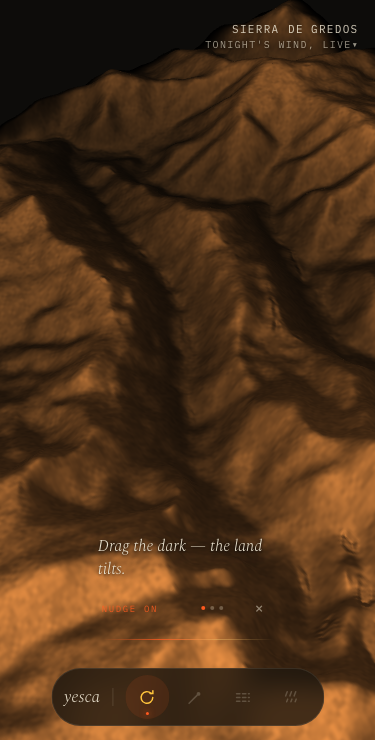
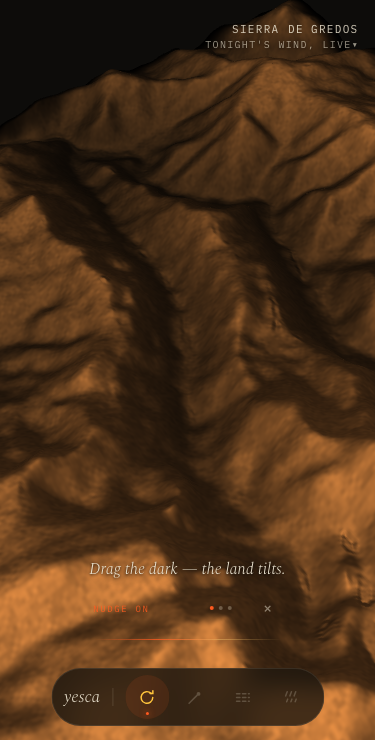
r15: every close path plays the clip; safe-area is real now
Design review r14 (live-driven, headed Chromium): the exit clips work —
guide 0.191→0.161→…→0, sheet folds from 0.201, whisper leave at +27ms —
but the .out end-state rewrite left holes where no trigger fired.

Motion (7 → fixes):
- the place button's toggle-close now runs playExit before committing —
  outside-pointer deliberately skips .place-btn so the toggle owns the
  gesture; it must own the clip too. measured: settled 1→0 was a cut,
  now 240ms from the live value, same call Escape uses
- the connection banner lingers like every other surface: offline state
  gets a 200ms linger + playExit on `online`, instead of unmounting cold
- the phone lesson crossfades between steps: .g-plain remounts per step
  (key={step}) and g-plain-in fades the new sentence in — before, the
  plain twin replaced the text between steps while desktop got the morph
- during the guide's exit only the last-taught step's dot stays lit —
  skipping at step one used to fade out wearing all three

Mobile (7 → fixes):
- .offline is a top line again: bottom:auto + width:max-content +
  max-width:100vw-32px, parked under the masthead — the phone query's
  bottom: used to stretch it into a 608px capsule covering the stack
- the phone lesson gets its real measure: width:max-content + 88vw —
  left:50% + width:auto shrink-fit it to 187.5px and orphaned "tilts."
- viewport-fit=cover so env(safe-area-inset-*) is actually non-zero in
  Safari; masthead pads env(safe-area-inset-top) so the notch can't sit
[…]

diff --git a/src/index.css b/src/index.css
@@ -634,7 +634,8 @@ body.revealed .guide.out,
 /* ---------- mobile ---------- */
 
 @media (max-width: 700px) {
-  .masthead { padding: 14px 16px; }
+  /* viewport-fit=cover makes the insets real — the masthead clears the notch */
+  .masthead { padding: calc(14px + env(safe-area-inset-top)) 16px 14px; }
   .place-btn { font-size: 11px; }
   .instruments {
     left: 16px; bottom: calc(96px + env(safe-area-inset-bottom)); gap: 12px;
@@ -658,27 +659,38 @@ body.revealed .guide.out,
   /* rail tops out at 148+44=192 — the chip clears it with room to spare */
   .sharechip { left: 16px; bottom: calc(204px + env(safe-area-inset-bottom)); min-height: 44px; display: inline-flex; align-items: center; }
   .tray { bottom: calc(14px + env(safe-area-inset-bottom)); padding: 6px 10px 6px 12px; }
-  /* the whole stack lifts with the dock — a home-indicator inset used to
-     raise the tray alone and park it inside the readouts and the lesson */
-  .offline { bottom: calc(74px + env(safe-area-inset-bottom)); }
+  /* top line only — setting bottom too would stretch the toast into a
+     capsule down the hillside. it sits below the masthead's ~72px */
+  .offline {
+    bottom: auto; top: calc(84px + env(safe-area-inset-top));
+    width: max-content; max-width: calc(100vw - 32px);
+  }
   .dock-brand span { display: none; }
   .tbtn { width: 44px; height: 44px; }
   /* the phone lesson is two rows: the sentence alone, then the controls —
      a 44px target beside the sentence is what used to cut it in half */
-  .guide { bottom: calc(100px + env(safe-area-inset-bottom)); max-width: 88vw; flex-direction: column; align-items: stretch; gap: 6px; }
+  /* left:50% + width:auto shrink-fits the lesson into the leftover half —
+     max-content lets the sentence use the 88vw the query already wrote */
+  .guide { bottom: calc(100px + env(safe-area-inset-bottom)); width: max-content; max-width: 88vw; flex-direction: column; align-items: stretch; gap: 6px; }
   .guide .g-k { display: none; }
   .g-top { display: flex; align-items: baseline; gap: 10px; }
   .g-meta { display: flex; align-items: center; gap: 14px; }
   .g-meta .g-dots { margin-left: auto; }
   .g-morph { display: none; }
-  .g-plain { display: inline; position: static; width: auto; height: auto; overflow: visible; clip-path: none; white-space: normal; }
+  /* the plain twin can't morph — a short fade-in per step is the honest
+     change of words (the span remounts on step so this replays) */
+  .g-plain {
+    display: inline; position: static; width: auto; height: auto; overflow: visible; clip-path: none; white-space: normal;
+    animation: g-plain-in 240ms var(--ease-out) backwards;
+  }
+  @keyframes g-plain-in { from { opacity: 0; } }
   .placetray { top: 56px; right: 16px; left: 16px; width: auto; }
 }
 
 /* ---------- reduced motion ---------- */
 
 @media (prefers-reduced-motion: reduce) {
-  .guide, .placetray, .sheet, .sheet-back, .offline, .hoverchip,
+  .guide, .g-plain, .placetray, .sheet, .sheet-back, .offline, .hoverchip,
   .sharechip, .masthead, .instruments, .rail, .tray,
   body.revealed .masthead, body.revealed .instruments,
   body.revealed .rail, body.revealed .tray,

diff --git a/src/App.tsx b/src/App.tsx
@@ -279,10 +279,23 @@ export default function App() {
     return () => removeEventListener("resize", onResize);
   }, [ready]);
 
-  // offline flag
+  // offline flag — the banner lingers through its exit like every other surface
+  const [offlineLinger, setOfflineLinger] = useState(!navigator.onLine);
+  useEffect(() => {
+    if (offline) {
+      setOfflineLinger(true);
+      return;
+    }
+    const t = setTimeout(() => setOfflineLinger(false), 200);
+    return () => clearTimeout(t);
+  }, [offline]);
   useEffect(() => {
     const off = () => setOffline(true);
-    const on = () => setOffline(false);
+    const on = () => {
+      // connectivity returning is still a leave — play the clip, not a cut
+      playExit(document.querySelector(".conn"), 180, "translateX(-50%) translateY(-4px)");
+      setOffline(false);
+    };
     addEventListener("offline", off);
     addEventListener("online", on);
     return () => {
@@ -787,7 +800,13 @@ export default function App() {
           <header className="masthead">
             <button
               className="place-btn"
-              onClick={() => setPlacesOpen((o) => !o)}
+              onClick={() => {
+                // the toggle owns this close — outside-click skips .place-btn,
+                // so the clip has to be fired here or the tray just cuts out
+                if (placesOpen)
+                  playExit(document.querySelector(".placetray"), 240, "scale(0.97) translateY(-4px)");
+                setPlacesOpen((o) => !o);
+              }}
               aria-expanded={placesOpen}
               title="choose a hillside"
             >
@@ -931,8 +950,8 @@ export default function App() {
             </div>
           )}
 
-          {offline && (
-            <div className="offline" role="status">
+          {(offline || offlineLinger) && (
+            <div className={`offline conn${offline ? "" : " out"}`} role="status">
               no connection — the wind is a memory
             </div>
           )}

diff --git a/src/ui/Guide.tsx b/src/ui/Guide.tsx
@@ -55,7 +55,9 @@ export function Guide({ step, closing, onSkip, buzzOn, onBuzz }: Props) {
           <span className="g-morph" aria-hidden="true">
             <TextMorph>{c.line}</TextMorph>
           </span>
-          <span className="g-plain">{c.line}</span>
+          {/* key remounts the line per step — the phone's g-plain-in fade
+              replays, so the sentence changes like it means it, not a blink */}
+          <span className="g-plain" key={step}>{c.line}</span>
         </span>
       </div>
       <div className="g-meta">
@@ -72,7 +74,9 @@ export function Guide({ step, closing, onSkip, buzzOn, onBuzz }: Props) {
         )}
         <span className="g-dots" aria-hidden>
           {(["orbit", "strike", "break"] as const).map((s) => (
-            <i key={s} className={s === step || step === "done" ? "on" : ""} />
+            // during the exit only the last-taught step stays lit — a skip at
+            // step one must not fade out wearing all three
+            <i key={s} className={s === (step === "done" ? last.current : step) ? "on" : ""} />
           ))}
         </span>
         <button className="g-skip" onClick={onSkip} aria-label="skip the tour">

diff --git a/index.html b/index.html
@@ -2,7 +2,7 @@
 <html lang="en">
   <head>
     <meta charset="UTF-8" />
-    <meta name="viewport" content="width=device-width, initial-scale=1.0" />
+    <meta name="viewport" content="width=device-width, initial-scale=1.0, viewport-fit=cover" />
     <title>yesca — strike a match anywhere on Earth</title>
     <meta name="description" content="A wildfire observatory: real terrain, tonight's real wind, and a GPU fire that behaves like fire." />
     <meta name="theme-color" content="#0D0C0A" />
